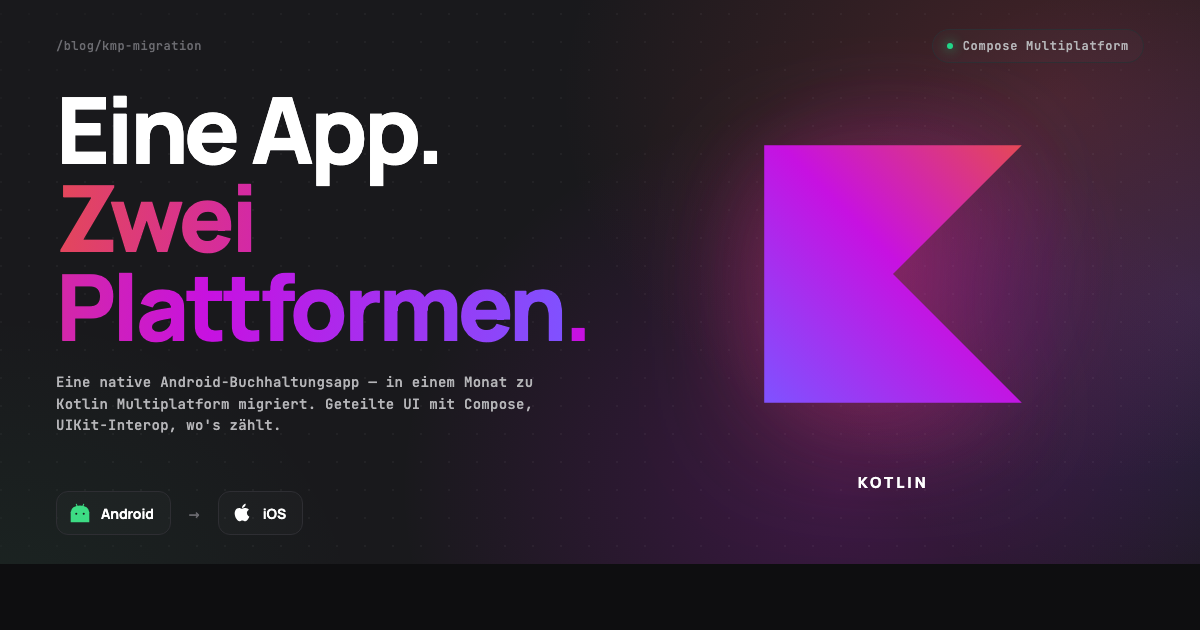
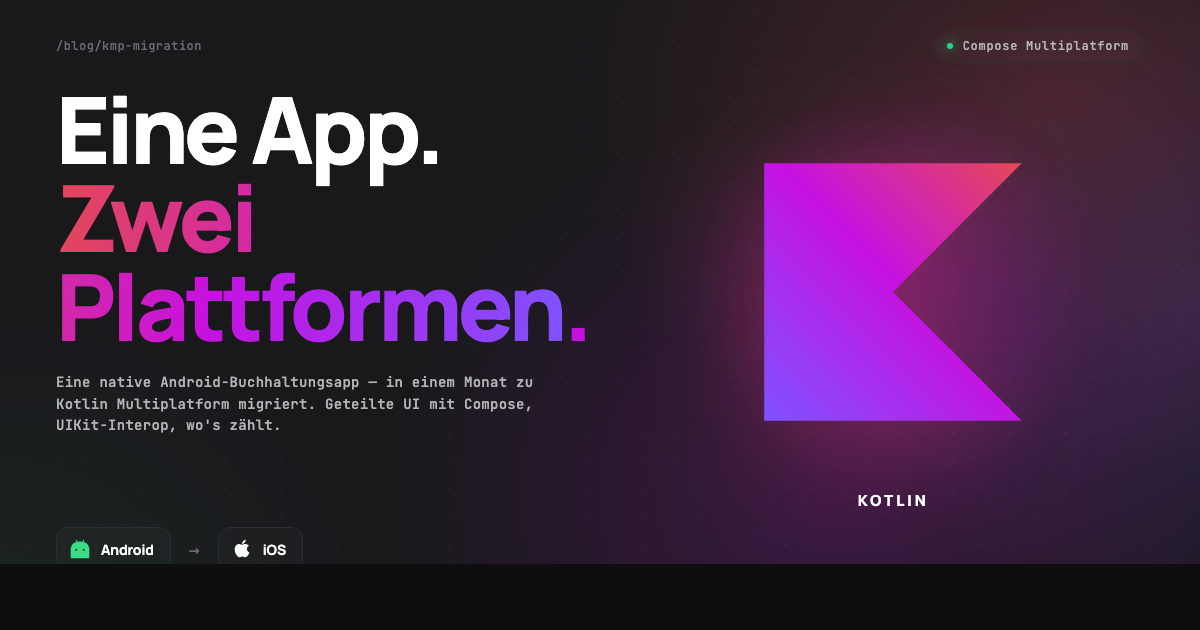
content(blog): dynamic hero frame + chips flush to bottom
Two related fixes:
1. .blog-hero-image CSS — drop max-height:420px and object-fit:cover.
   The image now renders at its natural aspect ratio (height:auto),
   so any image height works without crops or letterbox bars.
2. design HTML — push body grid bottom to 44px so the Android/iOS
   chips sit close to the bottom edge of the canvas. The previous
   80px gap rendered as a visible black band when the dynamic frame
   showed the full PNG.

diff --git a/src/snippets/blog/post-head.html b/src/snippets/blog/post-head.html
@@ -91,9 +91,9 @@
         }
 
         .blog-hero-image {
+            display: block;
             width: 100%;
-            max-height: 420px;
-            object-fit: cover;
+            height: auto;
             border-radius: 8px;
             margin-bottom: 3rem;
             border: 1px solid var(--border-color);

diff --git a/design/kmp-migration-hero.html b/design/kmp-migration-hero.html
@@ -119,7 +119,7 @@
       top: 100px;
       left: 56px;
       right: 56px;
-      bottom: 80px;
+      bottom: 44px;
       display: grid;
       grid-template-columns: 1.05fr 0.95fr;
       gap: 32px;
